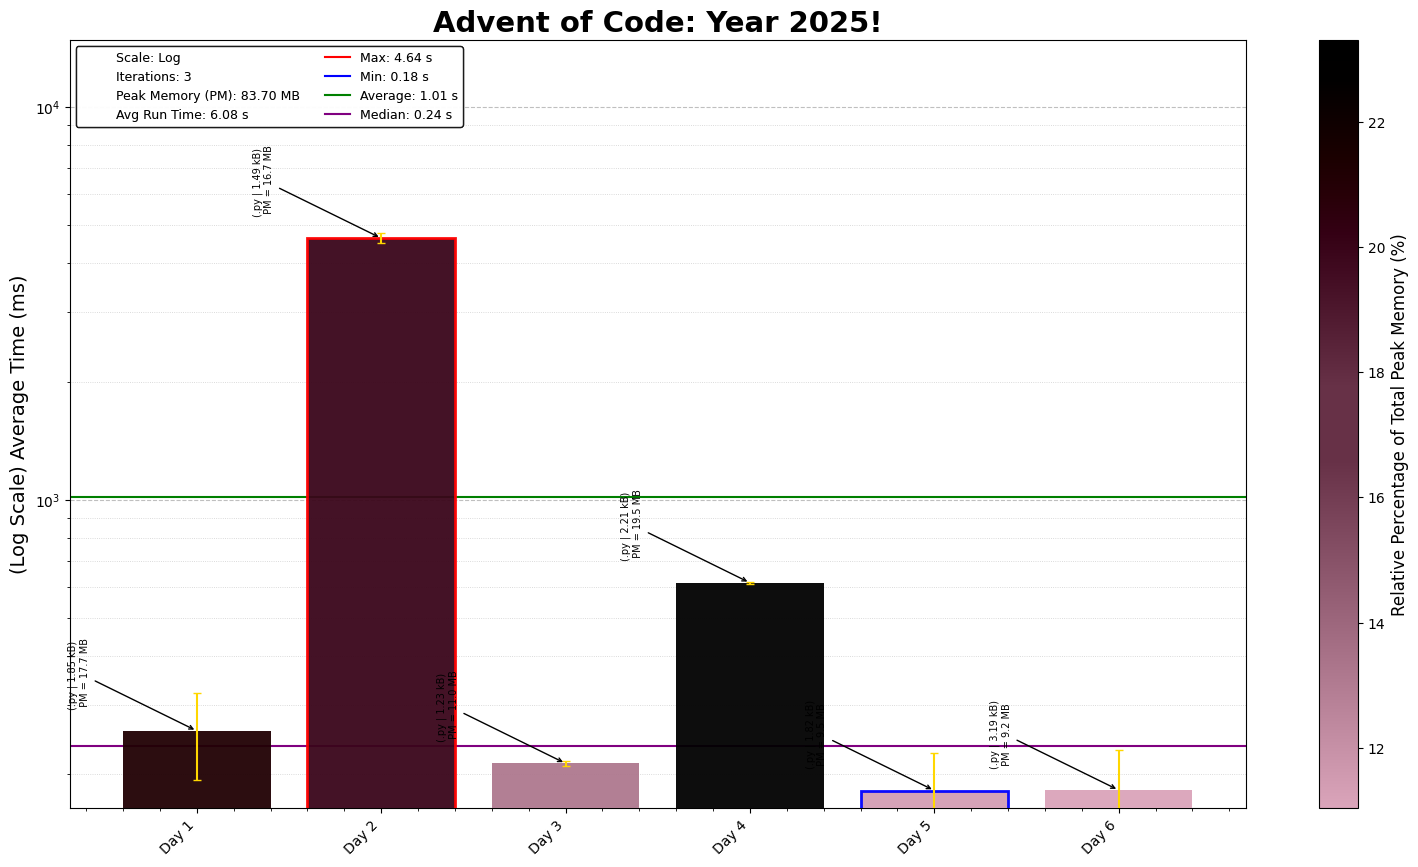
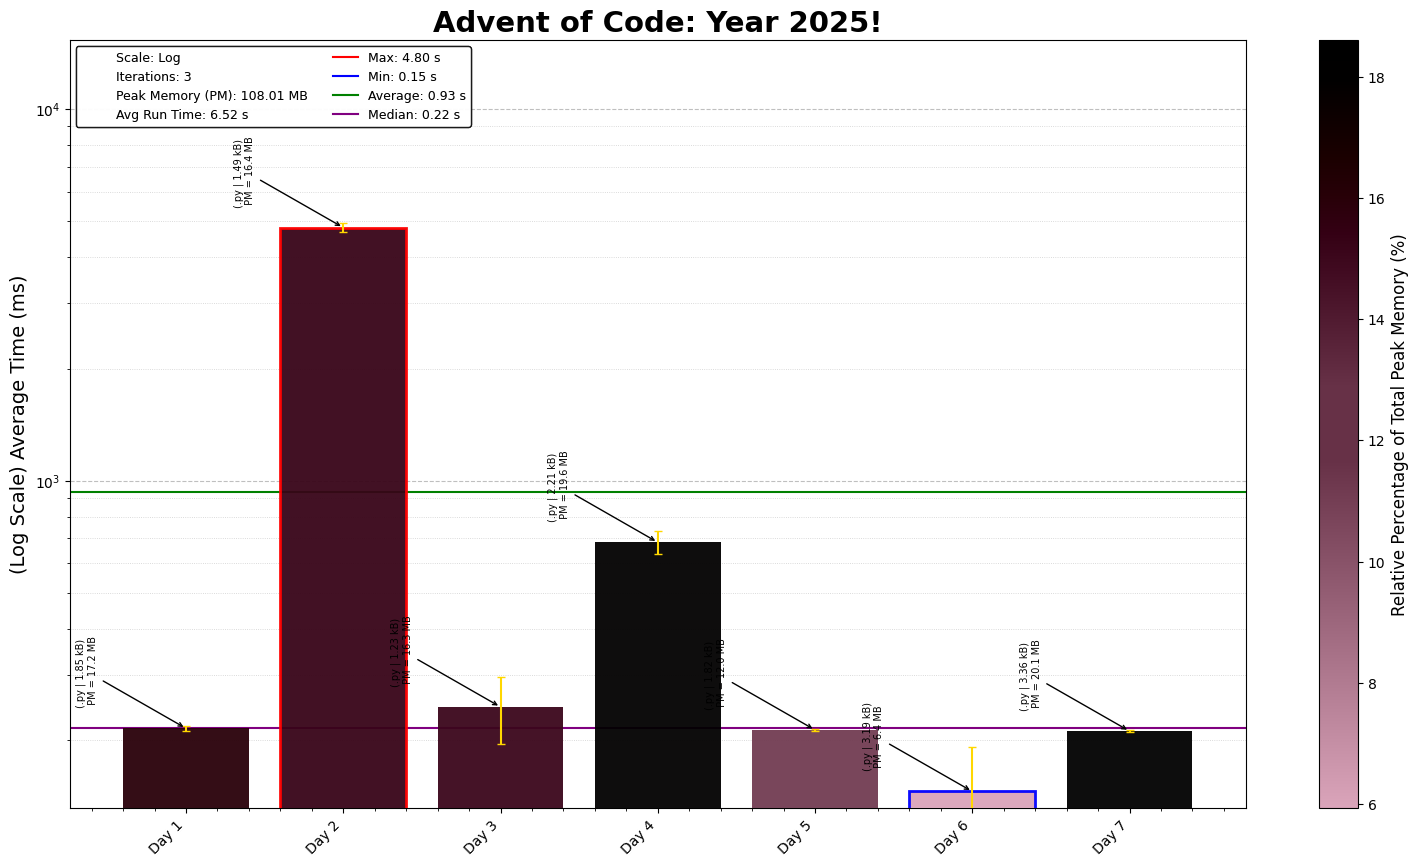
AOC 2025 Day 07: Labs

diff --git a/2025/07/2025Day07.py b/2025/07/2025Day07.py
@@ -1,0 +1,95 @@
+"""Advent of Code - Day 7, Year 2025
+Solution Started: December 7, 2025
+Puzzle Link: https://adventofcode.com/2025/day/7
+Solution by: Abbas Moosajee
+Brief: [Laboratories]"""
+
+#!/usr/bin/env python3
+from pathlib import Path
+from collections import deque
+
+# Load input file
+input_file = "Day07_input.txt"
+input_path = Path(__file__).parent / input_file
+
+with input_path.open("r", encoding="utf-8") as f:
+    data = f.read().splitlines()
+
+class AOC_LABS:
+    def __init__(self, init_map):
+        self.map_dict = {
+            (row_no, col_no): cell
+            for row_no, row_data in enumerate(init_map)
+            for col_no, cell in enumerate(row_data)
+        }
+        self.start_pos = next(pos for pos, cell in self.map_dict.items() if cell == 'S')
+
+    def count_splits(self):
+        queue = deque([self.start_pos])
+        visited = set()
+        split_count = 0
+        while queue:
+            beam_pos = queue.popleft()
+            beam_row, beam_col = beam_pos
+            if beam_pos in visited:
+                continue
+            visited.add(beam_pos)
+            map_cell = self.map_dict.get(beam_pos, ' ')
+            if map_cell in '.S':
+                new_beam = beam_row + 1, beam_col
+                queue.appendleft(new_beam)
+            elif map_cell == '^':
+                split_count += 1
+                right_beam = beam_row, beam_col + 1
+                left_beam = beam_row, beam_col - 1
+                queue.appendleft(right_beam)
+                queue.appendleft(left_beam)
+        return split_count
+
+    def build_timelines(self):
+        queue = deque([[self.start_pos]])
+        total_timelines = set()
+        while queue:
+            beam_path = queue.popleft()
+            beam_row, beam_col = beam_path[-1]
+            map_cell = self.map_dict.get((beam_row, beam_col), 'NA')
+            if map_cell in '.S':
+                new_beam = beam_row + 1, beam_col
+                queue.appendleft(beam_path + [new_beam])
+            elif map_cell == '^':
+                right_beam = beam_row, beam_col + 1
+                left_beam = beam_row, beam_col - 1
+                queue.appendleft(beam_path +[right_beam])
+                queue.appendleft(beam_path + [left_beam])
+            elif map_cell == 'NA':
+                total_timelines.add(tuple(beam_path))
+        return len(total_timelines)
+
+    def count_timelines_memoized(self):
+        """Memoized DFS - fastest for maps with overlapping subproblems."""
+        from functools import lru_cache
+
+        @lru_cache(maxsize=None)
+        def count_from(pos, depth=0, max_depth=1000):
+            """Count paths from position to outside map."""
+            if depth > max_depth:
+                return 0  # Prevent infinite recursion
+
+            cell = self.map_dict.get(pos)
+            if cell is None:
+                return 1  # Reached outside - one timeline
+
+            if cell in '.S':
+                return count_from((pos[0] + 1, pos[1]), depth + 1)
+            elif cell == '^':
+                left = count_from((pos[0], pos[1] - 1), depth + 1)
+                right = count_from((pos[0], pos[1] + 1), depth + 1)
+                return left + right
+            return 0
+
+        return count_from(self.start_pos)
+
+
+labs = AOC_LABS(data)
+print("AOC Day 07, P1:", labs.count_splits())
+print("AOC Day 07, P2:", labs.count_timelines_memoized())

diff --git a/2025/README_2025.md b/2025/README_2025.md
@@ -10,3 +10,4 @@ This repository contains coding solutions for the 2025 Advent of Code.
 4. **Day 4 - Printing Department**: *Python* | Pretty simple grid problem, and if you dont compute unnecessary things it runs faster.
 5. **Day 5 - Cafeteria**: *Python* | Validating a set of numbers through a series of ranges, and then counting all the numbers.
 6. **Day 6 - Trash Compactor**: *Python* | Reading a list of strings into numbers in a desired order is far from simple.
+7. **Day 7 - Laboratories**: *Python* | BFS and DFS, the good ole AOC algorithms back to use.
